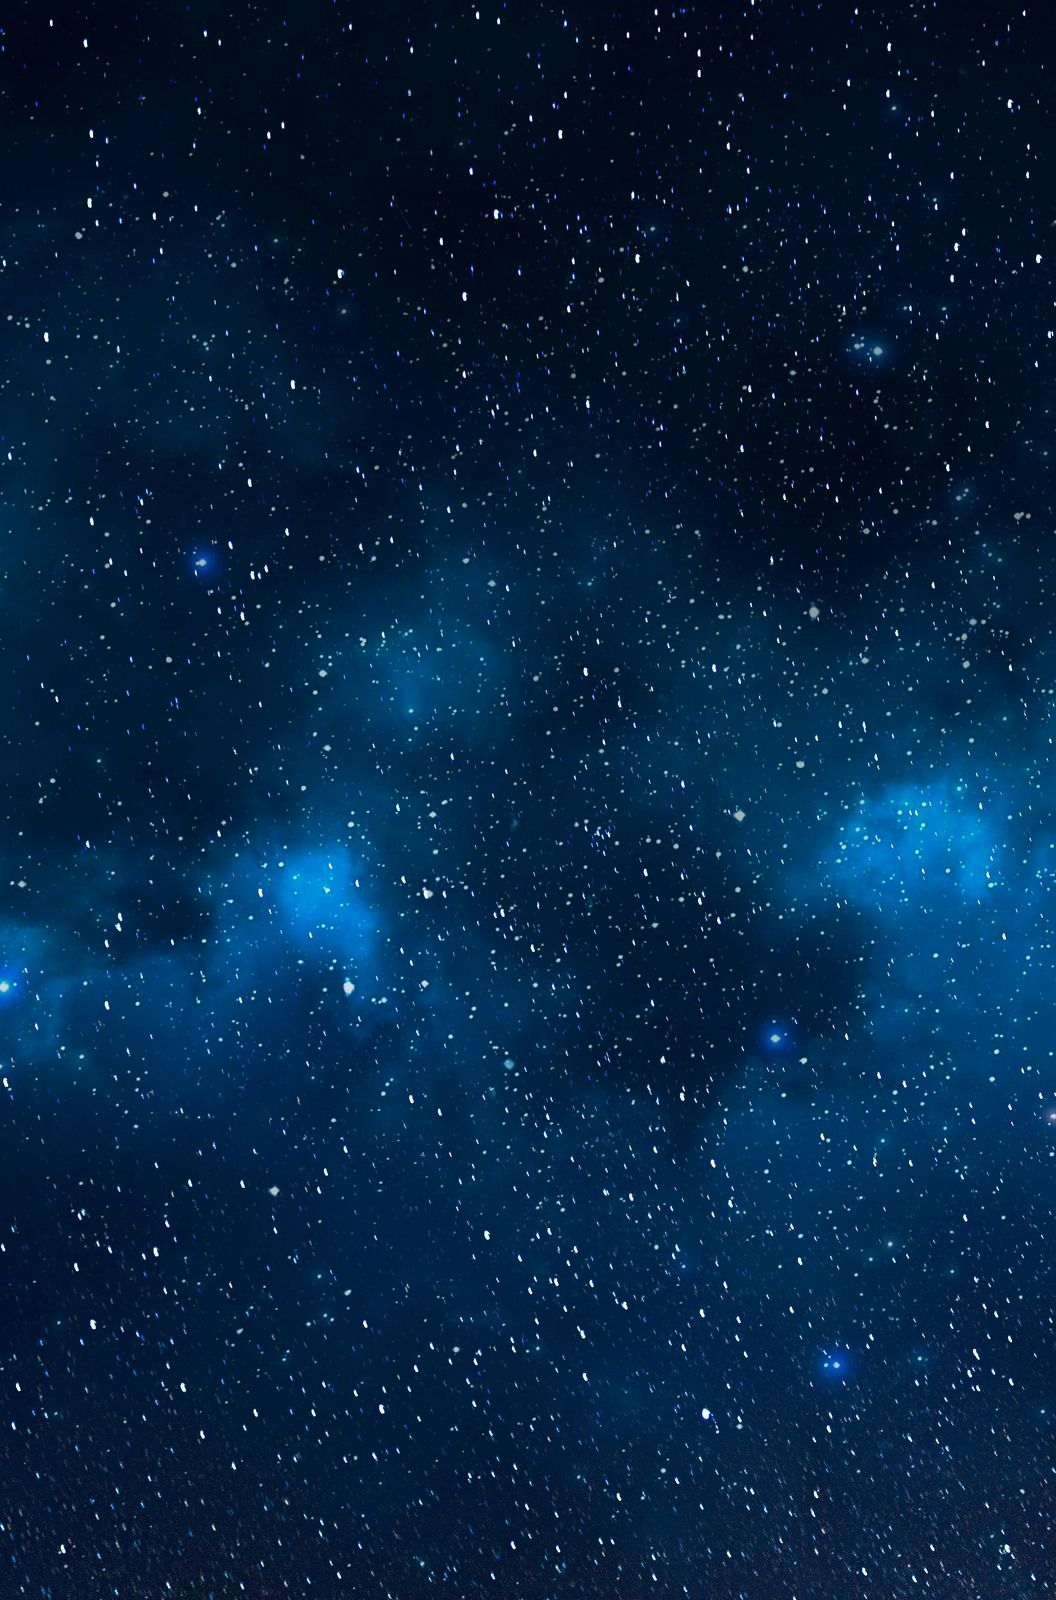
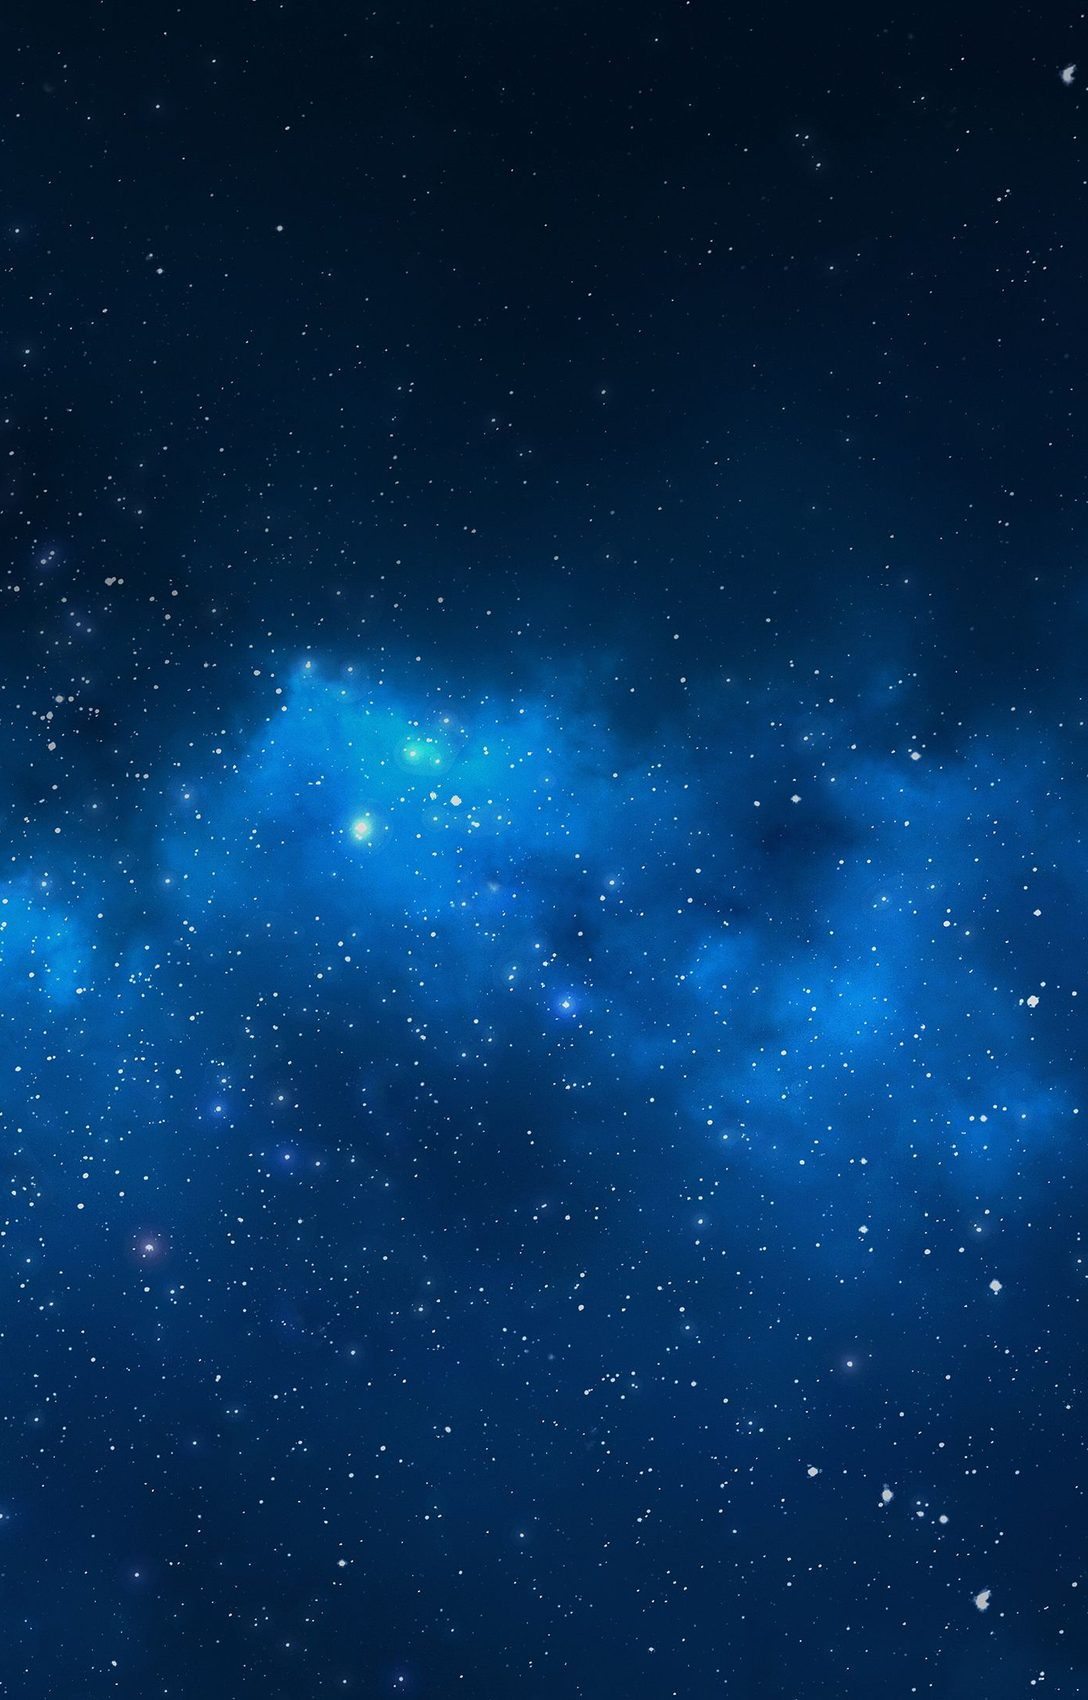
Switch the sky to fondo_definitivo.jpg
- Moved the upload from the repo root into images/, where the rest of
  the art lives and where the CLAUDE.md convention expects it.
- Regenerated the two served variants from it: sky-wide.jpg (2560px)
  and sky-tall.jpg (portrait crop of the right-hand nebula, which
  keeps a dark top for the title on phones). Both came out smaller
  than the previous pair despite the higher-resolution source
  (406KB vs 580KB, 180KB vs 231KB) - the new image is cleaner, so it
  compresses better.
- Re-sampled the :root palette from the new photo's actual pixels;
  it reads slightly bluer and lighter than the old one, so --void,
  --void-2, --void-3 and --hole moved with it.
- The 3840x2160 original stays in the repo as the source but is never
  loaded by the page - only referenced in a comment.

Verified: JS syntax check; Playwright across 7 routes x desktop /
mobile / reduced-motion with a full scroll of each - no page errors,
nothing stuck invisible, no horizontal overflow.

Claude-Session: https://claude.ai/code/session_01BE8RZAgCQXgBnUiCGzRoPb

diff --git a/index.html b/index.html
@@ -9,12 +9,13 @@
 <link href="https://fonts.googleapis.com/css2?family=Cormorant+Garamond:ital,wght@0,300;0,400;0,500;0,600;0,700;1,300;1,400;1,500;1,600&family=Outfit:wght@300;400;500;600;700&family=JetBrains+Mono:wght@400;500;700&display=swap" rel="stylesheet">
 <style>
 :root{
-  /* palette sampled directly from images/fondo_final.jpg: near-black base at the frame edges,
-     deep navy in the field, electric blue where the nebula bands run, bluish-white stars */
-  --void:#020a18;
-  --void-2:#03142b;
-  --void-3:#062240;
-  --hole:#01060f;
+  /* palette sampled directly from images/fondo_definitivo.jpg (the source of sky-wide.jpg):
+     near-black navy at the frame edges, deeper navy in the field, electric blue where the
+     nebula bands run, bluish-white stars */
+  --void:#011223;
+  --void-2:#021933;
+  --void-3:#06304f;
+  --hole:#010a14;
   --ink:#eef4ff;
   --ink-dim:#9db7d6;
   --ink-faint:#6b86a8;

diff --git a/CLAUDE.md b/CLAUDE.md
@@ -103,7 +103,7 @@ El carrusel de fotos (`cyclePhoto()`) cicla entre `photos[]` con una transición
 
 ## Diseño / paleta
 
-Tema "espacio profundo, cielo estrellado azul". Variables CSS en `:root`: `--void`, `--void-2`, `--void-3`, `--hole`, `--ink`, `--ink-dim`, `--ink-faint`, `--amber` (acento principal, cian, el nombre quedó por historia), `--violet`, `--teal`, `--line`, `--line-soft`, `--card`, `--card-hi`, `--ease`. Cambiar la paleta = redefinir estas variables, no hay que tocar el resto del CSS. Los valores actuales están muestreados de los píxeles reales de `images/fondo_final.jpg`.
+Tema "espacio profundo, cielo estrellado azul". Variables CSS en `:root`: `--void`, `--void-2`, `--void-3`, `--hole`, `--ink`, `--ink-dim`, `--ink-faint`, `--amber` (acento principal, cian, el nombre quedó por historia), `--violet`, `--teal`, `--line`, `--line-soft`, `--card`, `--card-hi`, `--ease`. Cambiar la paleta = redefinir estas variables, no hay que tocar el resto del CSS. Los valores actuales están muestreados de los píxeles reales de `images/fondo_definitivo.jpg`.
 
 Tipografías: `Cormorant Garamond` (serif de display: títulos, nombres, números de stats), `Outfit` (body/UI), `JetBrains Mono` (labels, fechas, chips, código).
 
@@ -117,7 +117,7 @@ Tres capas `position:fixed` a tamaño de viewport, detrás de todo, en este orde
 
 **Por qué fijas y no del alto del documento:** la página mide varios miles de px; una foto estirada a ese alto se ve borrosa y en mosaico se nota la repetición. Fijas, el cielo simplemente se queda quieto mientras el contenido pasa por encima — y de paso el canvas solo necesita el tamaño del viewport (mucho más barato de animar) en vez del alto completo del documento.
 
-Las fuentes originales de las imágenes (`fondo_final.jpg`, 6000×4000) se conservan en `/images`; las versiones que sirve la página son las optimizadas `sky-wide.jpg` / `sky-tall.jpg`.
+La fuente original del cielo (`images/fondo_definitivo.jpg`, 3840×2160) se conserva en el repo, pero la página **nunca la carga**: sirve las versiones optimizadas `sky-wide.jpg` (2560px) y `sky-tall.jpg` (recorte vertical para teléfonos). Al cambiar el fondo hay que regenerar esas dos y volver a muestrear la paleta de `:root`.
 
 ### Movimiento
 
